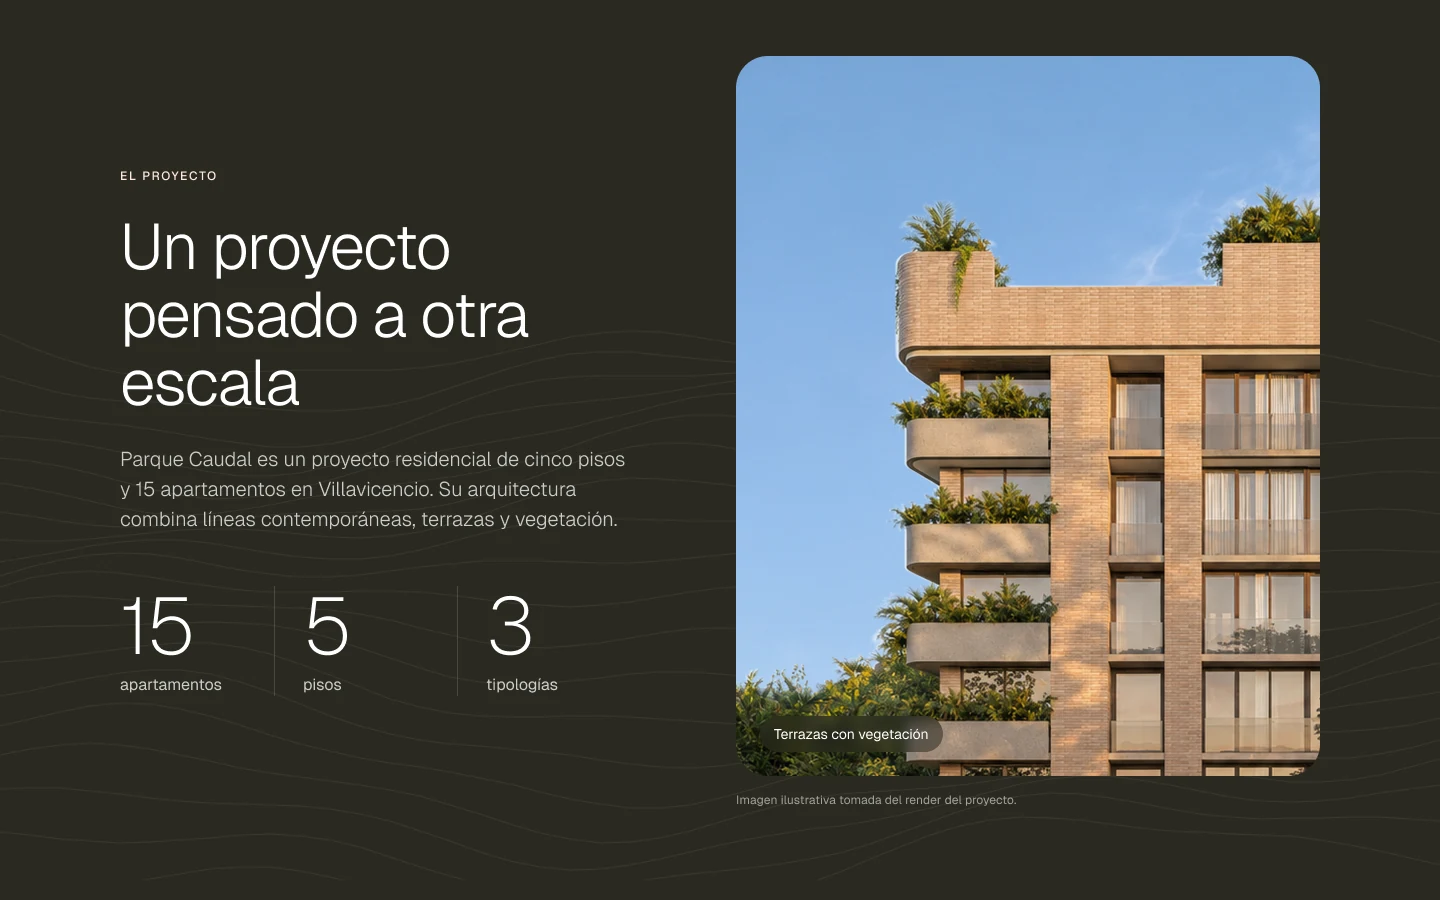
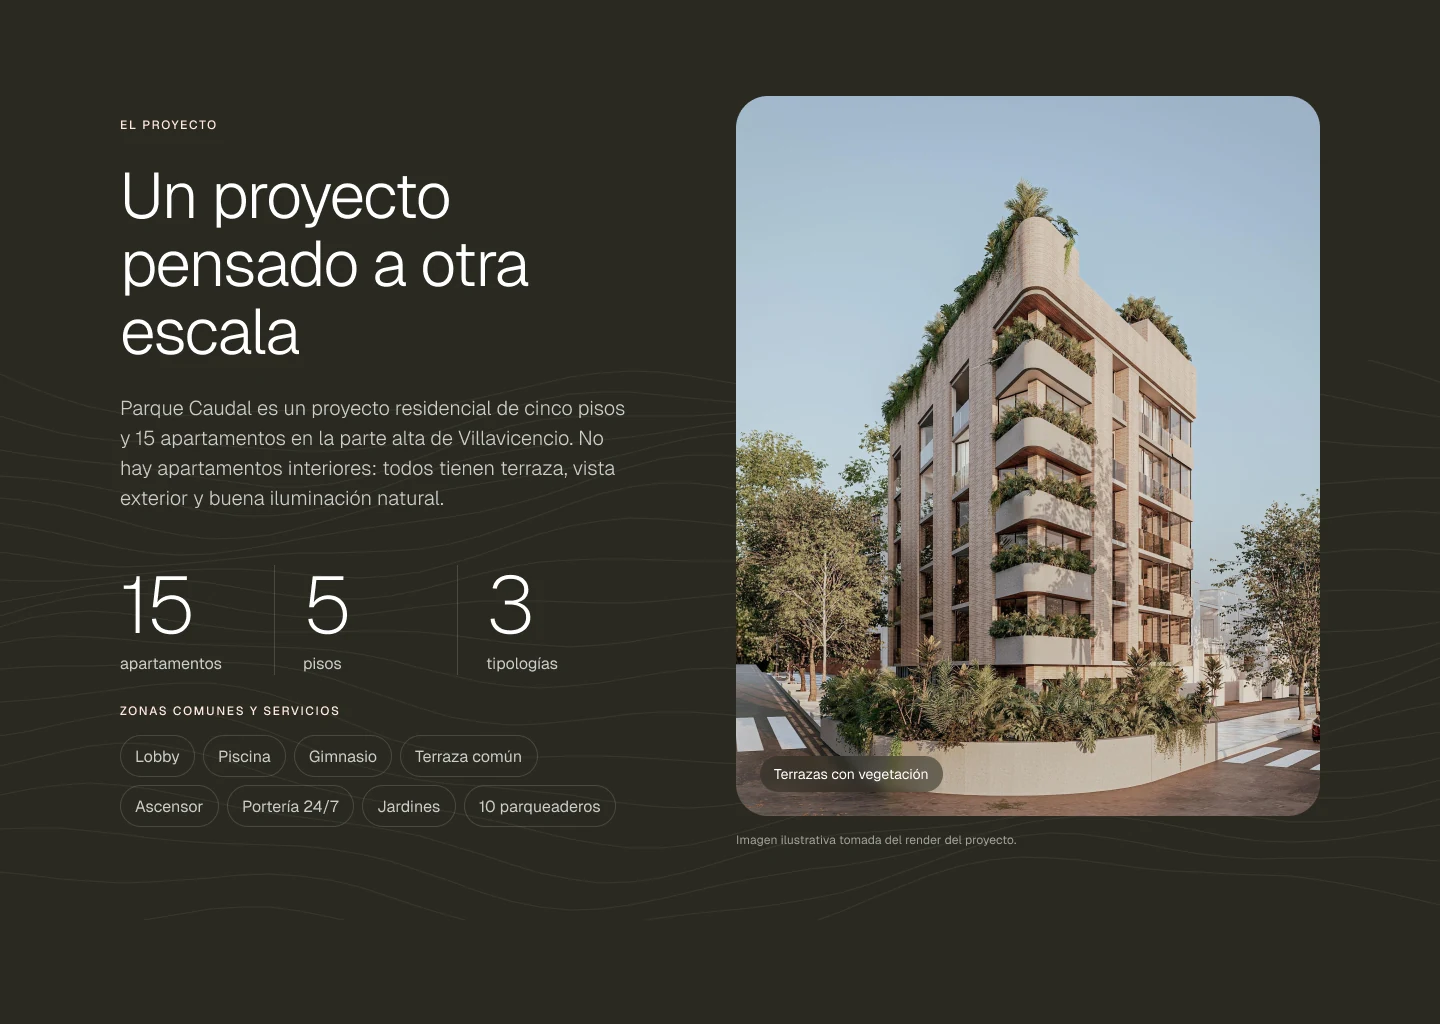
Parque Caudal: gallery, video and visual system at the top (#11)
* Parque Caudal page: replace the desktop hero with gallery, video and visual system trio

Claude-Session: https://claude.ai/code/session_01RgRrJV2TRqyo6x4XKgkFL2

* Parque Caudal: final approved assets, contact and typologies, rewritten story

Claude-Session: https://claude.ai/code/session_01RgRrJV2TRqyo6x4XKgkFL2

* Parque Caudal: re-export contact and project sections from the updated Figma

Claude-Session: https://claude.ai/code/session_01RgRrJV2TRqyo6x4XKgkFL2

---------

diff --git a/app/content/projects.ts b/app/content/projects.ts
@@ -12,7 +12,11 @@ export type Block =
   | { type: "images"; items: ProjectImage[] }
   | { type: "motion" }
   /** A looping, muted screen recording. Portrait clips render as a phone-width column. */
-  | { type: "video"; src: string; poster: string; alt: string; width: number; height: number };
+  | { type: "video"; src: string; poster: string; alt: string; width: number; height: number }
+  /** Two overlapping, tilted images with a portrait video between them. */
+  | { type: "trio"; left: ProjectImage; video: PageVideoSrc; right: ProjectImage };
+
+export type PageVideoSrc = { src: string; poster: string; alt: string; width: number; height: number };
 
 /** A Lottie animation served from public/motion. */
 export type MotionClip = { src: string; label: string; width: number; height: number };
@@ -121,30 +125,43 @@ const RV = { label: "Red Valley", brand: "redvalley" } as const;
 
 const CB_NOTE =
   "Coverbase is an AI procurement and vendor-risk platform from San Francisco. I joined as its first designer in November 2024, part-time at first and full-time from February 2026, and I own product design end to end.";
-const PC_COVER = img(
-  "parque-caudal-cover.webp",
-  "Parque Caudal hero: the PARQUE caudal wordmark over a deep blue sky, the brick building rising behind it and foliage framing the edges",
-  1440,
-  900,
-);
-const PC_CARD = img(
-  "parque-caudal-card.webp",
-  "Parque Caudal hero: the PARQUE caudal wordmark over a deep blue sky, with the brick building and foliage below",
-  1120,
-  800,
-);
 const PC_PROJECT = img(
   "parque-caudal-project.webp",
-  "El proyecto section: Un proyecto pensado a otra escala, with the figures 15 apartments, 5 floors and 3 typologies beside a render of planted terraces",
+  "El proyecto section: Un proyecto pensado a otra escala, with 15 apartments, 5 floors and 3 typologies, common areas as tags and a corner render of the building",
   1440,
-  900,
+  1024,
+);
+const PC_TYPES = img(
+  "parque-caudal-types.webp",
+  "Tipologías section: Encuentra tu espacio, three apartment cards with floor plan, area, terrace, parking and a WhatsApp button",
+  1440,
+  1170,
+);
+const PC_CONTACT = img(
+  "parque-caudal-contact.webp",
+  "Contact section: WhatsApp button first, email link second and a callback form third, with the sales team's daily hours",
+  1440,
+  924,
 );
 const PC_GALLERY = img(
-  "parque-caudal-gallery.webp",
-  "Gallery section: Conoce Parque Caudal, with the facade render large and four thumbnails for facade, terraces, access and roof",
+  "parque-caudal-gallery-full.webp",
+  "Gallery section: Conoce Parque Caudal, with the facade render large and eight thumbnails from facade and corner to kitchen, lobby, pool and BBQ area",
   1440,
-  1296,
+  1542,
 );
+const PC_SYSTEM = img(
+  "parque-caudal-system.webp",
+  "Visual system sheet: the PARQUE caudal wordmark on a dark panel above the palette and type scale title and the Tierra and Arena color primitives",
+  1400,
+  1200,
+);
+const PC_VIDEO = {
+  src: "/media/parque-caudal-hero.mp4",
+  poster: "/media/parque-caudal-hero.webp",
+  alt: "Mobile hero intro: the wordmark and building settle in with parallax, then the page scrolls to the project section with 15 apartments, 5 floors and 3 typologies",
+  width: 590,
+  height: 1276,
+};
 const PC_PALETTE = img(
   "parque-caudal-palette.webp",
   "Visual system: the Tierra, Arena, Cielo, Hoja and Café color primitives taken from the hero",
@@ -197,45 +214,37 @@ export const projects: Project[] = [
     year: 2026,
     employer: { label: "Freelance" },
     client: "Parque Caudal",
-    description: "A pre-launch landing page for a 15-apartment building in Villavicencio, Colombia.",
+    description: "A brand and pre-launch landing page for a 15-apartment building in Villavicencio, Colombia.",
     teaser: "WhatsApp first: a one-page launch that lets buyers start the conversation",
-    image: PC_CARD,
-    coverVideo: { src: "/media/parque-caudal-hero.mp4", poster: "/media/parque-caudal-hero.webp", width: 590, height: 1276 },
+    image: PC_GALLERY,
+    coverVideo: { src: PC_VIDEO.src, poster: PC_VIDEO.poster, width: PC_VIDEO.width, height: PC_VIDEO.height },
     story: [
-      { type: "images", items: [PC_COVER] },
+      { type: "trio", left: PC_GALLERY, video: PC_VIDEO, right: PC_SYSTEM },
       {
         type: "p",
-        text: "Parque Caudal is a five-floor residential building with 15 apartments in three typologies, in Villavicencio, Colombia. The client needed a simple, credible one-page site to launch it and test early interest before investing in more sales tooling. I directed the design in November 2026, with Claude as an AI collaborator connected to Figma. The project is in its design phase and has not launched yet.",
+        text: "Parque Caudal is a five-floor building with 15 apartments in three typologies, in Villavicencio, Colombia. The developer needed a simple, credible one-page site to launch it and test early interest before investing in more sales tooling. I designed the logo and the website, and I’m also building it for launch. The final design is approved.",
       },
       { type: "h", text: "Answering a buyer’s questions in order" },
       {
         type: "p",
-        text: "The page follows the questions a buyer asks: what it is, what the apartments are like, where it is and how to get more information. Location and size surface early, and nothing useful sits behind a form. The client supplied one exterior render and a floor plan, so every image is a crop of that render, and every fact the client has not confirmed carries a visible pending tag instead of invented copy.",
+        text: "The page follows the questions a buyer asks: what it is, what the apartments are like, where it is and how to get in touch. Size, the three typologies and the common areas show up early, and nothing useful sits behind a form. I also improved the quality of the renders and floor plans the client shared, so they hold up at full size.",
       },
-      { type: "images", items: [PC_PROJECT, PC_GALLERY] },
-      { type: "h", text: "WhatsApp first, the form second" },
+      { type: "h", text: "WhatsApp first, then email, then the form" },
       {
         type: "p",
-        text: "I made WhatsApp the primary action across the page, in the hero, on each apartment card, after the FAQs and in the contact section, with the lead form as a second, passive option. People prefer to send a message and stay in control rather than wait for a callback. The FAQs come from a quick benchmark of what Colombian buyers ask about off-plan purchases: delivery date, how their money is protected, payment plans, financing, parking and visiting a sales room.",
+        text: "The client asked for a form, plus a WhatsApp button for people who might prefer it. I flipped the order: WhatsApp is the primary action across the page, email comes second and the form third. People don’t want to wait for a callback, and WhatsApp is how most people in Colombia already talk to businesses. I also suggested showing the sales team’s working hours right in the contact section, so people know when to expect an answer.",
       },
-      { type: "h", text: "A visual system taken from the hero" },
+      { type: "images", items: [PC_PROJECT, PC_TYPES, PC_CONTACT] },
+      { type: "h", text: "A brand built from a single render" },
       {
         type: "p",
-        text: "I designed the hero and the first section, and the rest of the system was derived from them: earth, sand, sky and leaf color primitives, dark and light theme modes that alternate by section, and a Geist type scale for mobile and desktop. I also had the PARQUE wordmark vectorized letter by letter from a raster source, with equal stems and optical kerning.",
+        text: "We started with a render of the building and nothing else: no logo, no colors, no type. So I built the visual system around the architecture: the PARQUE caudal logo, a palette taken from the brick, the sky and the foliage, dark and light sections that alternate down the page, and a Geist type scale. Nature is what sets this project apart, and every apartment faces outward with its own terrace and view, so I made it part of the brand, from the foliage framing the hero to the flowing lines behind each section.",
       },
       { type: "images", items: [PC_PALETTE, PC_TYPE] },
-      { type: "h", text: "Motion from the design layers" },
+      { type: "h", text: "Bringing a flat render to life" },
       {
         type: "p",
-        text: "The hero is built as layers: sky, building, foliage and interface. That made a parallax intro possible straight from the Figma layers, rendered frame by frame. My one rule was that no hard edge could ever show, so every frame was checked along the seams. The clip below runs the intro and a scroll into the project section on mobile.",
-      },
-      {
-        type: "video",
-        src: "/media/parque-caudal-hero.mp4",
-        poster: "/media/parque-caudal-hero.webp",
-        alt: "Mobile hero intro: the wordmark and building settle in with parallax, then the page scrolls to the project section with 15 apartments, 5 floors and 3 typologies",
-        width: 590,
-        height: 1276,
+        text: "A render is a flat image. I split it into layers (sky, building, foliage and interface) and animated them strategically, with a slow push-in and parallax at different depths, so the hero feels alive instead of static. The clip at the top shows the intro and the scroll into the project section on mobile.",
       },
     ],
   },

diff --git a/app/components/feed.module.css b/app/components/feed.module.css
@@ -568,6 +568,7 @@
 .page {
   position: relative;
   padding: 30px 0 0;
+  container-type: inline-size; /* cqi below = the page width, for blocks wider than the text */
 }
 
 /* Arrow and title are one link. The arrow hangs in the gutter so "Projects" keeps the
@@ -679,6 +680,61 @@
 
 .pageVideoTall video {
   border-radius: 28px;
+}
+
+/* Trio (Parque Caudal): gallery left, video centre, visual system right, overlapping and tilted.
+   Up to 1000px wide, centred on the text column, never under the side column. Positions are
+   percentages of the box, from Darwin's mock. */
+.trio {
+  --col-left: max(var(--title-inset), (100cqi - 720px) / 2);
+  --trio-w: min(1000px, 100cqi - 2 * var(--title-inset));
+  position: relative;
+  width: var(--trio-w);
+  margin: 72px 0 72px calc(max(var(--title-inset), (100cqi - var(--trio-w)) / 2) - var(--col-left));
+  aspect-ratio: 1000 / 600;
+}
+
+.trio > img,
+.trio > video {
+  position: absolute;
+  display: block;
+  height: auto;
+  -webkit-user-drag: none;
+}
+
+.trio > img {
+  filter: drop-shadow(4px 4px 8px rgb(0 0 0 / 0.4));
+}
+
+.trioLeft {
+  left: 0;
+  top: 7%;
+  width: 45%;
+  rotate: -2deg;
+}
+
+.trioRight {
+  right: 0;
+  top: 3%;
+  width: 46%;
+  rotate: 2deg;
+}
+
+.trioVideo {
+  left: 50%;
+  top: 0;
+  height: 100% !important;
+  width: auto;
+  translate: -50% 0;
+  border-radius: 24px;
+  outline: 0.5px solid rgb(255 255 255 / 0.08);
+  outline-offset: -0.5px;
+  box-shadow: 8px 8px 24px rgb(0 0 0 / 0.5);
+  background: #2a2a21;
+}
+
+.trio + .paragraph {
+  margin-top: 0;
 }
 
 .cluster + .sectionTitle,

diff --git a/app/components/ProjectTrio.tsx b/app/components/ProjectTrio.tsx
@@ -1,0 +1,39 @@
+"use client";
+
+import { useEffect, useRef } from "react";
+import type { PageVideoSrc, ProjectImage } from "../content/projects";
+import styles from "./feed.module.css";
+
+// Two tilted, overlapping images with a portrait video between them (Darwin's Parque Caudal mock).
+// The video plays only on screen and never with reduced motion.
+export function ProjectTrio({ left, video, right }: { left: ProjectImage; video: PageVideoSrc; right: ProjectImage }) {
+  const ref = useRef<HTMLVideoElement>(null);
+
+  useEffect(() => {
+    const v = ref.current;
+    if (!v || window.matchMedia("(prefers-reduced-motion: reduce)").matches) return;
+    const io = new IntersectionObserver(([e]) => (e.isIntersecting ? v.play().catch(() => {}) : v.pause()), { threshold: 0.25 });
+    io.observe(v);
+    return () => io.disconnect();
+  }, []);
+
+  return (
+    <figure className={styles.trio} data-reveal="">
+      <img className={styles.trioLeft} src={left.src} alt={left.alt} width={left.width} height={left.height} decoding="async" draggable={false} />
+      <img className={styles.trioRight} src={right.src} alt={right.alt} width={right.width} height={right.height} decoding="async" draggable={false} />
+      <video
+        ref={ref}
+        className={styles.trioVideo}
+        src={video.src}
+        poster={video.poster}
+        width={video.width}
+        height={video.height}
+        muted
+        loop
+        playsInline
+        preload="metadata"
+        aria-label={video.alt}
+      />
+    </figure>
+  );
+}

diff --git a/app/projects/[slug]/page.tsx b/app/projects/[slug]/page.tsx
@@ -3,6 +3,7 @@ import Link from "next/link";
 import { notFound } from "next/navigation";
 import { MotionGrid } from "../../components/MotionGrid";
 import { PageVideo } from "../../components/PageVideo";
+import { ProjectTrio } from "../../components/ProjectTrio";
 import { ImageCluster } from "../../components/ImageCluster";
 import { ProjectMeta } from "../../components/ProjectMeta";
 import { Shell } from "../../components/Shell";
@@ -45,6 +46,7 @@ export default async function ProjectPage({ params }: Params) {
           {p.story.map((b, i) => {
             if (b.type === "images") return <ImageCluster key={i} images={b.items} variant={cluster++} seed={`${p.slug}-${i}`} />;
             if (b.type === "motion") return p.motion ? <MotionGrid key={i} clips={p.motion} size="page" /> : null;
+            if (b.type === "trio") return <ProjectTrio key={i} {...b} />;
             if (b.type === "video") return <PageVideo key={i} {...b} />;
             if (b.type === "h") return <h2 key={i} className={styles.sectionTitle}>{b.text}</h2>;
             return <p key={i} className={styles.paragraph}>{b.text}</p>;
